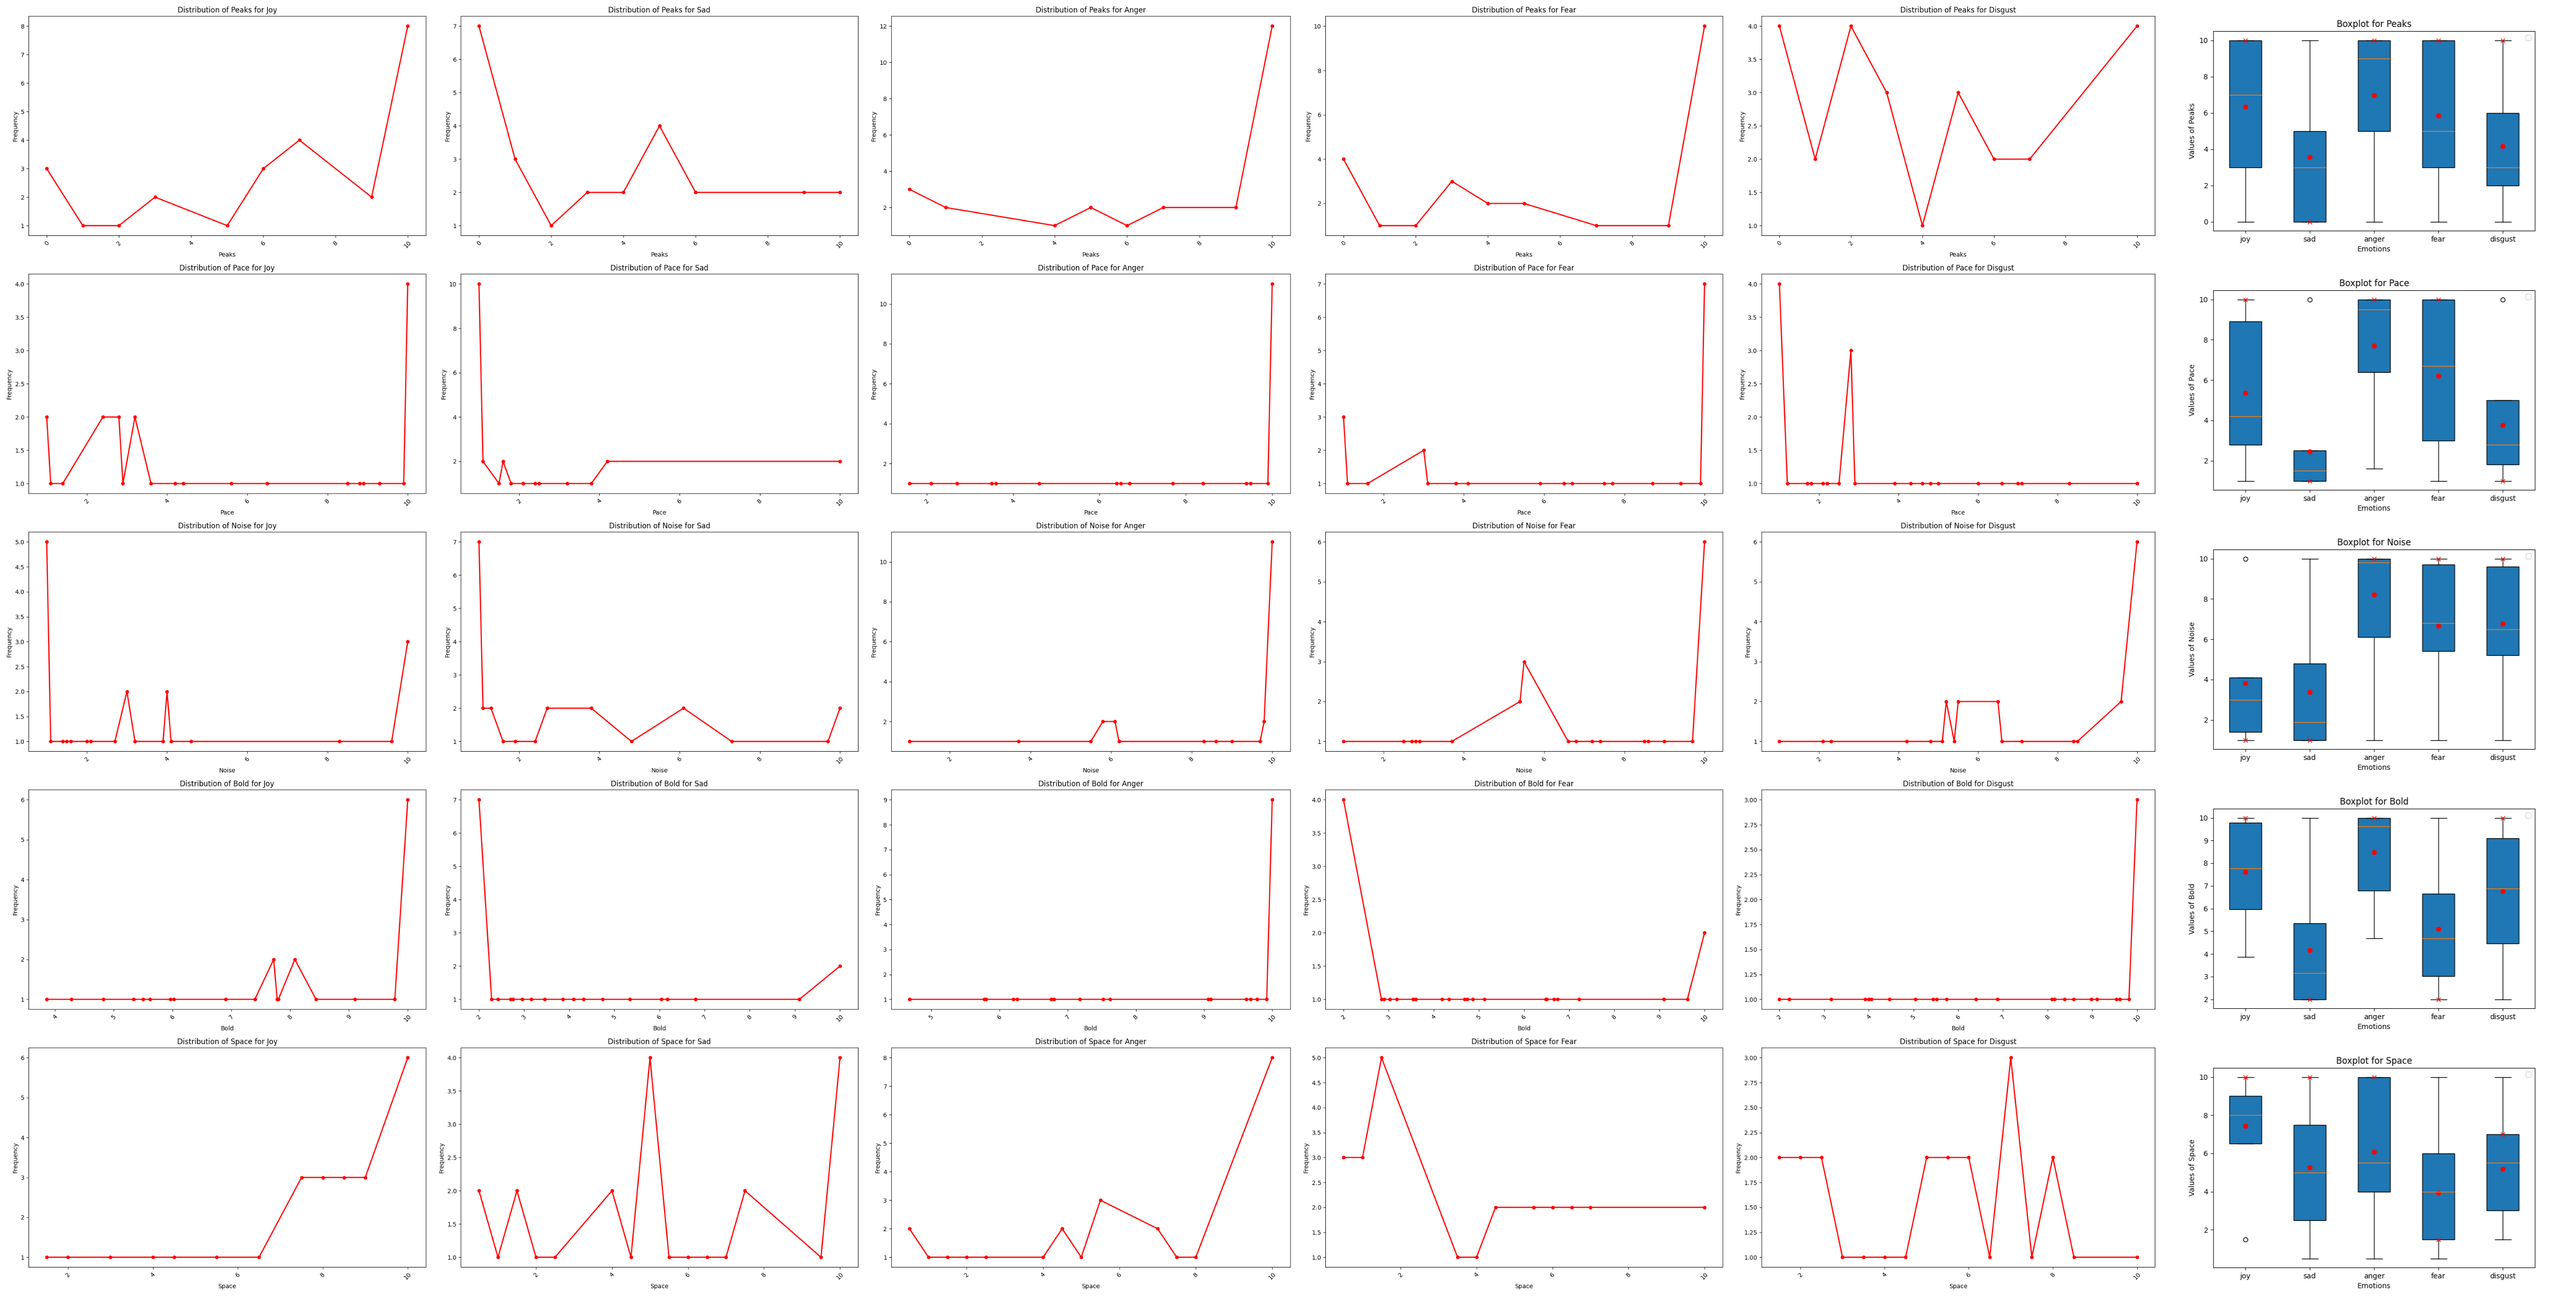
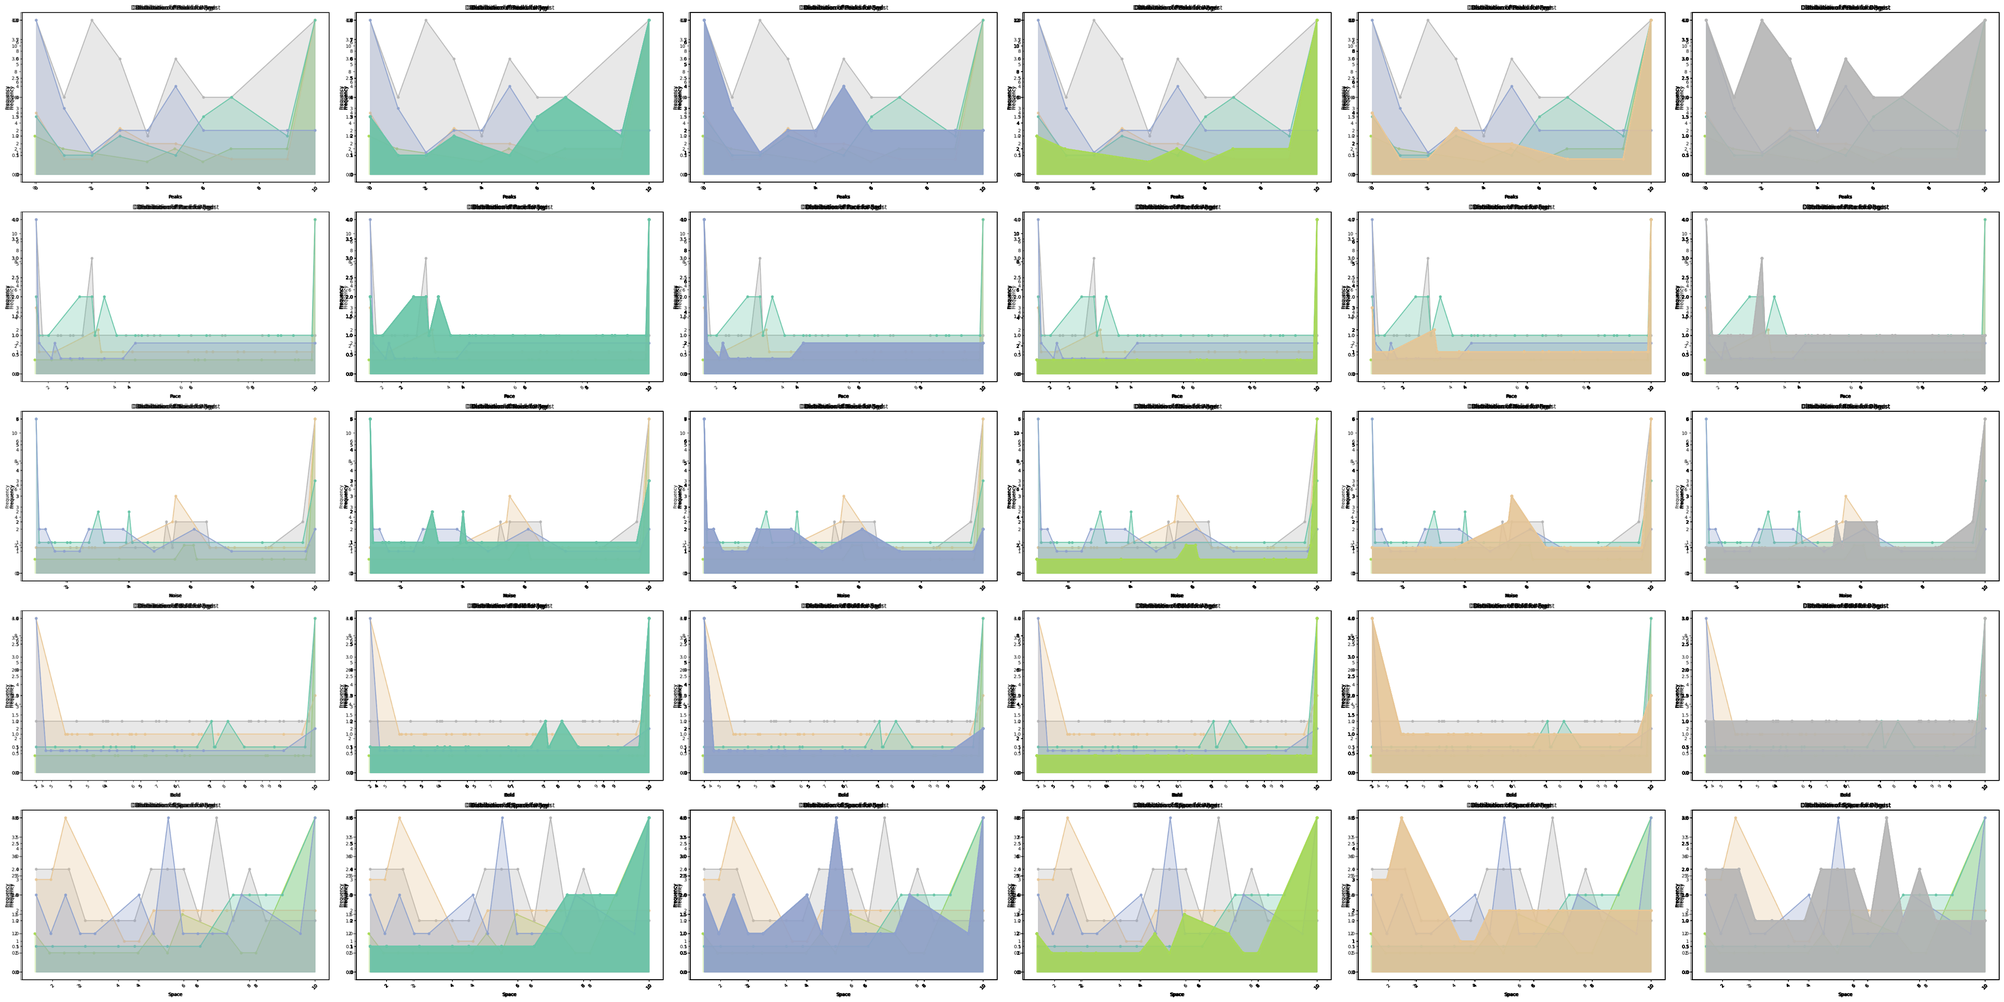
fixed visualization

diff --git a/analyzer/analyze.py b/analyzer/analyze.py
@@ -4,6 +4,7 @@ from collections import Counter
 from util import read_data
 from scipy import stats
 import os
+from matplotlib import cm
 
 # L = [joy, sad, anger, fear, dsgst]
 # OUTER RING, INNER RING, PEAKS, PACE, NOISE, BOLD, SPACE
@@ -30,55 +31,56 @@ def tally_emotion(emotion):
         tallied_emotion[key] = tally_data(emotion, key)
     return tallied_emotion
         
-def graph_emotion_type(emotion, feature, ax):
+def graph_emotion_type(emotion, feature, ax, color):
     emotion_data = emotions[emotion]
     tallied_emotion = tally_emotion(emotion_data)
     data = tallied_emotion.get(feature, {})
     keys = list(data.keys())
     values = list(data.values())
 
-    if (feature == 'pk'): 
+    if not keys or not values:
+        return  # Skip if no data for this feature
+
+    # Set different scales for each feature
+    if feature == 'pk':
         scale = 1
-    elif (feature == 'pc'):
+    elif feature == 'pc':
         scale = 100
-    elif (feature == 'n'):
+    elif feature == 'n':
         scale = 10
-    elif (feature == 'b'):
+    elif feature == 'b':
         scale = 2
-    elif (feature == 's'):
+    elif feature == 's':
         scale = 0.5
 
     scaled_keys = [key * scale for key in keys]
 
-    # Create a bar plot of the distribution
-    # ax.bar(scaled_keys, values, color='black', width=1)
-
-    # Plot a line that connects the bars
-    ax.plot(scaled_keys, values, color='red', marker='o', linestyle='-', linewidth=2, markersize=5, label='Trend Line')
+    # Plot the line and fill the area below it
+    ax.plot(scaled_keys, values, color=color, marker='o', linestyle='-', linewidth=2, markersize=5)
+    ax.fill_between(scaled_keys, values, color=color, alpha=0.3)
 
     # Adding titles and labels
     ax.set_title(f'Distribution of {features[feature]} for {emotion.capitalize()}', fontsize=12)
     ax.set_xlabel(features[feature], fontsize=10)
     ax.set_ylabel('Frequency', fontsize=10)
-    
-    # Format x-axis labels to show only a few decimal places
     ax.tick_params(axis='x', rotation=45)
 
 def plot_all_emotion_types(emotion):
-    fig, axes = plt.subplots(len(features), 1, figsize=(10, 6 * len(features)))  # Create a figure with multiple subplots
+    # Assign distinct color to each emotion
+    emotion_colors = plt.cm.Set2(np.linspace(0, 1, len(emotions)))
+    color = emotion_colors[list(emotions.keys()).index(emotion)]
 
-    # If there is only one subplot, `axes` is not an array, so we need to handle that case
+    fig, axes = plt.subplots(len(features), 1, figsize=(10, 6 * len(features)), facecolor='none')
+
+    # Ensure axes is a list for consistent handling
     if len(features) == 1:
         axes = [axes]
 
     for i, feature in enumerate(features):
-        graph_emotion_type(emotion, feature, axes[i])  # Plot each emotion type on a separate subplot
+        graph_emotion_type(emotion, feature, axes[i], color)
 
-    # Adjust layout to avoid overlap
     plt.tight_layout()
-
-    # Show the final stacked plot
-    plt.savefig(os.path.join('analyzer//graphs',f'{emotion}.png'))
+    plt.savefig(os.path.join('analyzer//graphs', f'{emotion}.png'), transparent=True)
 
 for key in emotions.keys():
     plot_all_emotion_types(key)
